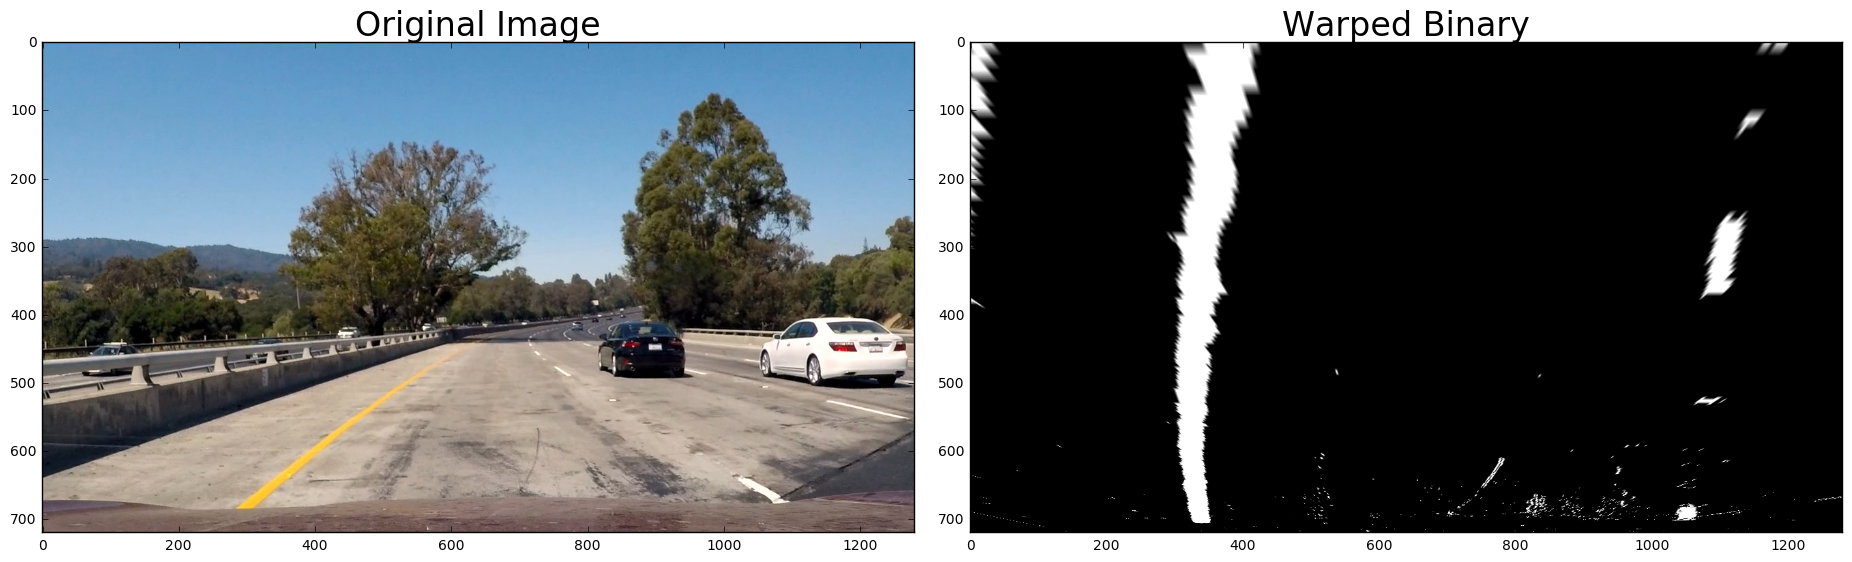
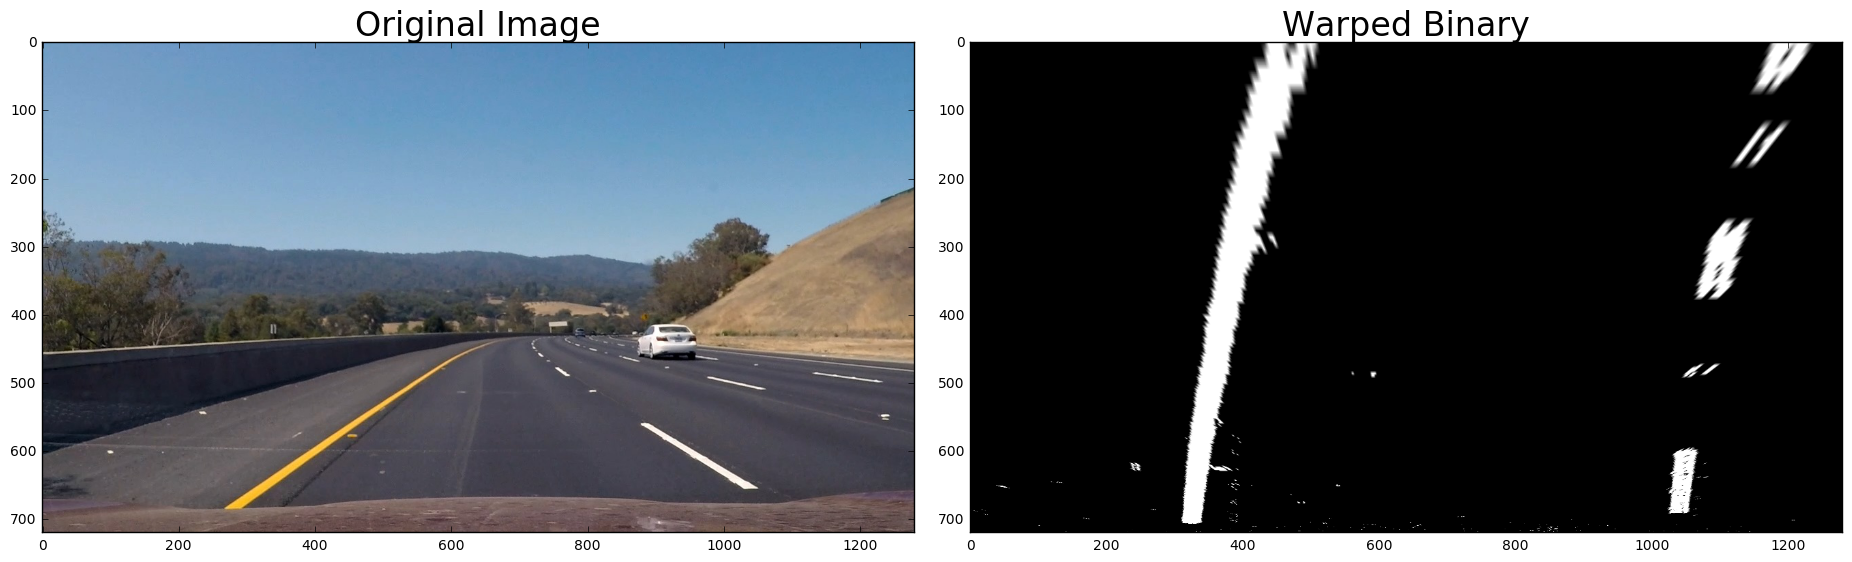
add vehicle position offset from center of the lane

diff --git a/advanced_lane_lines.md b/advanced_lane_lines.md
@@ -215,7 +215,8 @@ src = np.float32([corners[0],corners[1],corners[2],corners[3]])
 dst = np.float32([corners[0]+offset,top_left+offset,top_right-offset,corners[3]-offset])
 print(dst)
 # Test it out
-img = mpimg.imread('test_images/straight_lines1.jpg')
+img = np.copy(image)
+#mpimg.imread('test_images/straight_lines1.jpg')
 img_size = (img.shape[1], img.shape[0])
 undist = cv2.undistort(img, mtx, dist, None, mtx)
 warped, M, MInv = warper(undist, src, dst, debug=True)
@@ -270,7 +271,7 @@ def undist_pipeline_warp(img):
     result = warp(combined_binary)
     return result, combined_binary
 
-img = plt.imread('test_images/test1.jpg')
+img = plt.imread('test_images/test3.jpg')
 warped_binary, intermediate_binary = undist_pipeline_warp(img)
 
 draw_two_imgs(img, warped_binary, title2='Warped Binary')
@@ -294,13 +295,13 @@ plt.plot(histogram)
 ```
 
     (1280,)
-    338
+    345
 
 
 
 
 
-    [<matplotlib.lines.Line2D at 0x111312ef0>]
+    [<matplotlib.lines.Line2D at 0x10bcec208>]
 
 
 
@@ -324,7 +325,8 @@ def sliding_window(binary_warped):
     
     leftx_base = np.argmax(histogram[:midpoint])
     rightx_base = np.argmax(histogram[midpoint:]) + midpoint
-    ## print('midpoint, left, right:', midpoint, leftx_base, rightx_base)
+    center_offset = int((leftx_base+rightx_base)/2) - midpoint
+    #print('Inital left, midpoint, right, center_offset: ', midpoint, leftx_base, rightx_base, center_offset)
 
     # Choose the number of sliding windows
     nwindows = 9
@@ -391,9 +393,9 @@ def sliding_window(binary_warped):
     # Fit a second order polynomial to each
     left_fit = np.polyfit(lefty, leftx, 2)
     right_fit = np.polyfit(righty, rightx, 2)
-    return lanes_detected, left_fit, right_fit
+    return lanes_detected, center_offset, left_fit, right_fit
     
-lanes_detected, left_fit, right_fit = sliding_window(warped_binary)
+lanes_detected, center_offset, left_fit, right_fit = sliding_window(warped_binary)
 # Generate x and y values for plotting
 ploty = np.linspace(0, warped_binary.shape[0]-1, warped_binary.shape[0] )
 left_fitx = left_fit[0]*ploty**2 + left_fit[1]*ploty + left_fit[2]
@@ -428,6 +430,18 @@ Once we detected the lane lines on the first image frame, we don't have to use t
 
 ```python
 def subsequent_frame(binary_warped, left_fit, right_fit):
+    if len(binary_warped.shape) > 2:
+        single_channel = binary_warped[:,:,0]
+    else:
+        single_channel = binary_warped
+
+    histogram = np.sum(single_channel[int(single_channel.shape[0]/2):,:], axis=0)
+    midpoint = np.int(histogram.shape[0]/2)    
+    leftx_base = np.argmax(histogram[:midpoint])
+    rightx_base = np.argmax(histogram[midpoint:]) + midpoint
+    center_offset = int((leftx_base+rightx_base)/2) - midpoint
+    #print('Subsequent left, midpoint, right, center_offset: ', midpoint, leftx_base, rightx_base, center_offset)
+
     nonzero = binary_warped.nonzero()
     nonzeroy = np.array(nonzero[0])
     nonzerox = np.array(nonzero[1])
@@ -453,13 +467,15 @@ def subsequent_frame(binary_warped, left_fit, right_fit):
     ploty = np.linspace(0, binary_warped.shape[0]-1, binary_warped.shape[0] )
     left_fitx = left_fit[0]*ploty**2 + left_fit[1]*ploty + left_fit[2]
     right_fitx = right_fit[0]*ploty**2 + right_fit[1]*ploty + right_fit[2]
-    return lanes_detected, left_fit, right_fit 
+    return lanes_detected, center_offset, left_fit, right_fit 
 
-img = plt.imread('test_images/test1.jpg')
+img = plt.imread('test_images/test3.jpg')
 binary, _= undist_pipeline_warp(img)
 binary_warped = binary[:,:,0]
+print('undist_pipeline_warp returns 3-channels: ', binary.shape)
+print('binary_warped.shape', binary_warped.shape)
 
-detected, left_fit, right_fit = subsequent_frame(binary_warped, left_fit, right_fit)
+detected,center_offset,left_fit,right_fit = subsequent_frame(binary_warped, left_fit, right_fit)
 
 # Create an image to draw on and an image to show the selection window
 out_img = np.dstack((binary_warped, binary_warped, binary_warped))*255
@@ -491,6 +507,10 @@ plt.ylim(720, 0)
     
 ```
 
+    undist_pipeline_warp returns 3-channels:  (720, 1280, 3)
+    binary_warped.shape (720, 1280)
+
+
 
 
 
@@ -499,7 +519,7 @@ plt.ylim(720, 0)
 
 
 
-![png](output_20_1.png)
+![png](output_20_2.png)
 
 
 #### 4.4 Measuring Curvature
@@ -518,7 +538,7 @@ leftx_sample = np.array([200 + (y**2)*quadratic_coeff + np.random.randint(-50, h
 rightx_sample = np.array([900 + (y**2)*quadratic_coeff + np.random.randint(-50, high=51) 
                                 for y in ploty_sample])
 
-def calculate_curvature(leftx, rightx, ploty, do_plot=False):
+def calculate_curvature(midoffset, leftx, rightx, ploty, do_plot=False):
     #leftx = leftx[::-1]  # Reverse to match top-to-bottom in y
     #rightx = rightx[::-1]  # Reverse to match top-to-bottom in y
 
@@ -544,7 +564,7 @@ def calculate_curvature(leftx, rightx, ploty, do_plot=False):
     y_eval = np.max(ploty)
     left_curverad = ((1 + (2*left_fit[0]*y_eval + left_fit[1])**2)**1.5) / np.absolute(2*left_fit[0])
     right_curverad = ((1 + (2*right_fit[0]*y_eval + right_fit[1])**2)**1.5) / np.absolute(2*right_fit[0])
-    print('Curvature in pixel space: ', left_curverad, right_curverad)
+    #print('Curvature in pixel space: ', left_curverad, right_curverad)
 
     # Define conversions in x and y from pixels space to meters
     ym_per_pix = 30/720 # meters per pixel in y dimension
@@ -559,18 +579,16 @@ def calculate_curvature(leftx, rightx, ploty, do_plot=False):
     right_curverad = ((1 + (2*right_fit_cr[0]*y_eval*ym_per_pix + right_fit_cr[1])**2)**1.5) / np.absolute(2*right_fit_cr[0])
     # Now our radius of curvature is in meters
     curvature = 0.5*(round(right_curverad/1000,1) + round(left_curverad/1000,1))
-    position = 3.7
+    # vehicle/camera center position in CM
+    position = round(100*midoffset*xm_per_pix, 1) 
     return position, curvature
 
 #calculate_curvature(leftx_sample, rightx_sample, ploty_sample)
-position, curvature = calculate_curvature(left_fitx, right_fitx, ploty, do_plot=True)
+position, curvature = calculate_curvature(center_offset,left_fitx, right_fitx, ploty, do_plot=True)
 ```
 
-    Curvature in pixel space:  3667.80935596 8727.28333836
 
-
-
-![png](output_22_1.png)
+![png](output_22_0.png)
 
 
 #### 4.5 Lane Area Overlay
@@ -579,7 +597,7 @@ First, we create an empty image to draw the lines on. Then we recast the x and y
 
 
 ```python
-def overlay_lane_lines(img,left_fitx,right_fitx,yvals,curv_overlay=False):
+def overlay_lane_lines(img,midoffset,left_fitx,right_fitx,yvals,curv_overlay=False):
     lanefit_image = np.zeros_like(img).astype(np.uint8)
 
     left = np.array([np.transpose(np.vstack([left_fitx, yvals]))])
@@ -591,31 +609,30 @@ def overlay_lane_lines(img,left_fitx,right_fitx,yvals,curv_overlay=False):
     inverse_warp = cv2.warpPerspective(lanefit_image, MInv, (img.shape[1], img.shape[0])) 
     result = cv2.addWeighted(undist, 1, inverse_warp, 0.3, 0)
     if curv_overlay is True:
-        position, curvature = calculate_curvature(left_fitx, right_fitx, yvals, do_plot=False)
-        curv_str = str('Radius of curvature: '+str(curvature)+'km')
+        position, curvature = calculate_curvature(midoffset, left_fitx, right_fitx, yvals, do_plot=False)
+        pos_str = str('Vehicle Center Offset: '+str(position)+"cm")
+        curv_str = str('Radius of Curvature: '+str(curvature)+'km')
         font = cv2.FONT_HERSHEY_SIMPLEX
         cv2.putText(result, curv_str,(430,670), font, 1,(0,0,255),2,cv2.LINE_AA)
+        cv2.putText(result, pos_str,(420,620), font, 1,(0,0,255),2,cv2.LINE_AA)
 
     return result
 
 img = plt.imread('test_images/test1.jpg')
-overlay = overlay_lane_lines(img, left_fitx, right_fitx, ploty, curv_overlay=True)
+overlay = overlay_lane_lines(img, center_offset, left_fitx, right_fitx, ploty, curv_overlay=True)
 
 draw_two_imgs(img, overlay, title2='Overlay')
 ```
 
-    Curvature in pixel space:  3667.80935596 8727.28333836
 
-
-
-![png](output_24_1.png)
+![png](output_24_0.png)
 
 
 ### 5. Pipeline (video)
 
 #### 5.1 Process image frame
 
-I created a function called `process_image`, that will take an image as parameter and run through the pipeline we have developed so far. I used image [test3.jpg](test_images/test3.jpg) to test my pipeline. It looks pretty good!
+I created a function called `process_image`, that will take an image as parameter and run through the pipeline we have developed so far. I used image test4.jpg to test my pipeline. It looks pretty good!
 
 
 ```python
@@ -637,16 +654,16 @@ def process_image(img):
     warped_binary, intermediate_binary = undist_pipeline_warp(img)
     if lanes_detected is None:
         ## print('Lanes not detected yet, try sliding window')
-        lanes_detected, left_fit, right_fit = sliding_window(warped_binary)
+        lanes_detected,mid_offset,left_fit,right_fit = sliding_window(warped_binary)
 
     if lanes_detected is True:
-        lanes_detected, left_fit, right_fit = subsequent_frame(warped_binary, left_fit, right_fit)
+        lanes_detected,mid_offset,left_fit,right_fit = subsequent_frame(warped_binary, left_fit, right_fit)
 
         # Generate x and y values for plotting
         ploty = np.linspace(0, warped_binary.shape[0]-1, warped_binary.shape[0] )
         left_fitx = left_fit[0]*ploty**2 + left_fit[1]*ploty + left_fit[2]
         right_fitx = right_fit[0]*ploty**2 + right_fit[1]*ploty + right_fit[2]
-        image = overlay_lane_lines(img, left_fitx, right_fitx, ploty)
+        image = overlay_lane_lines(img,mid_offset,left_fitx,right_fitx,ploty,curv_overlay=True)
     else:
         ## print('Not detect, try next frame')
         lanes_detected = None
@@ -668,7 +685,7 @@ draw_two_imgs(img, overlay, title2='Overlay')
 
 #### 5.2 Saving video
 
-Here we use moviepy's VideoFileClip to grab each frame and feed it through my developed pipeline. The output video file is save in [project_video_out.mp4](project_video_out.mp4).
+Here we use moviepy's VideoFileClip to grab each frame and feed it through my developed pipeline. The output video file is save in `project_video_out.mp4`.
 
 
 ```python
@@ -678,6 +695,79 @@ clip1 = VideoFileClip("project_video.mp4")
 processed_clip = clip1.fl_image(process_image) #NOTE: this function expects color images!!
 %time processed_clip.write_videofile(video_output, audio=False)
 ```
+
+    [MoviePy] >>>> Building video project_video_out.mp4
+    [MoviePy] Writing video project_video_out.mp4
+
+
+    100%|█████████▉| 1260/1261 [06:08<00:00,  3.41it/s]
+
+
+    [MoviePy] Done.
+    [MoviePy] >>>> Video ready: project_video_out.mp4 
+    
+    CPU times: user 6min 13s, sys: 1min 14s, total: 7min 28s
+    Wall time: 6min 9s
+
+
+#### 6 Discussions
+
+This project is a challenging one for anyone who does not have a solid background in computer vision or OpenCV. What was covered in video classes fortunately were all that are required to complete the project. But it did take me a while to piece everything together. 
+
+Two major difficulties arose during the project. The first is to identify the image points and object points in order to calculate the perspective matrix. It took some time to wrap my mind around what is going on. 
+
+The second difficulty is to come up with the right combination of threshold filters (gradient threshold, color threshold, S v.s. L channel thresholds). There are just a lot of parameters to deal with. I feel like this is the area where a lot of improvements can be made in the future. The current pipeline does not well on the challenge video and I suspect that a lot fine-tuning in this area should help. 
+
+### 7 Challenge
+
+
+
+
+```python
+video_output = 'challenge_video_out.mp4'
+clip1 = VideoFileClip("challenge_video.mp4")
+#clip1 = VideoFileClip("solidWhiteRight.mp4")
+processed_clip = clip1.fl_image(process_image) #NOTE: this function expects color images!!
+%time processed_clip.write_videofile(video_output, audio=False)
+```
+
+    [MoviePy] >>>> Building video challenge_video_out.mp4
+    [MoviePy] Writing video challenge_video_out.mp4
+
+
+    100%|██████████| 485/485 [02:14<00:00,  3.56it/s]
+
+
+    [MoviePy] Done.
+    [MoviePy] >>>> Video ready: challenge_video_out.mp4 
+    
+    CPU times: user 2min 17s, sys: 27.9 s, total: 2min 44s
+    Wall time: 2min 15s
+
+
+
+```python
+video_output = 'harder_challenge_video_out.mp4'
+clip1 = VideoFileClip("harder_challenge_video.mp4")
+#clip1 = VideoFileClip("solidWhiteRight.mp4")
+processed_clip = clip1.fl_image(process_image) #NOTE: this function expects color images!!
+%time processed_clip.write_videofile(video_output, audio=False)
+
+```
+
+    [MoviePy] >>>> Building video harder_challenge_video_out.mp4
+    [MoviePy] Writing video harder_challenge_video_out.mp4
+
+
+    100%|█████████▉| 1199/1200 [06:56<00:00,  3.31it/s]
+
+
+    [MoviePy] Done.
+    [MoviePy] >>>> Video ready: harder_challenge_video_out.mp4 
+    
+    CPU times: user 6min 38s, sys: 1min 35s, total: 8min 13s
+    Wall time: 6min 57s
+
 
 
 ```python
